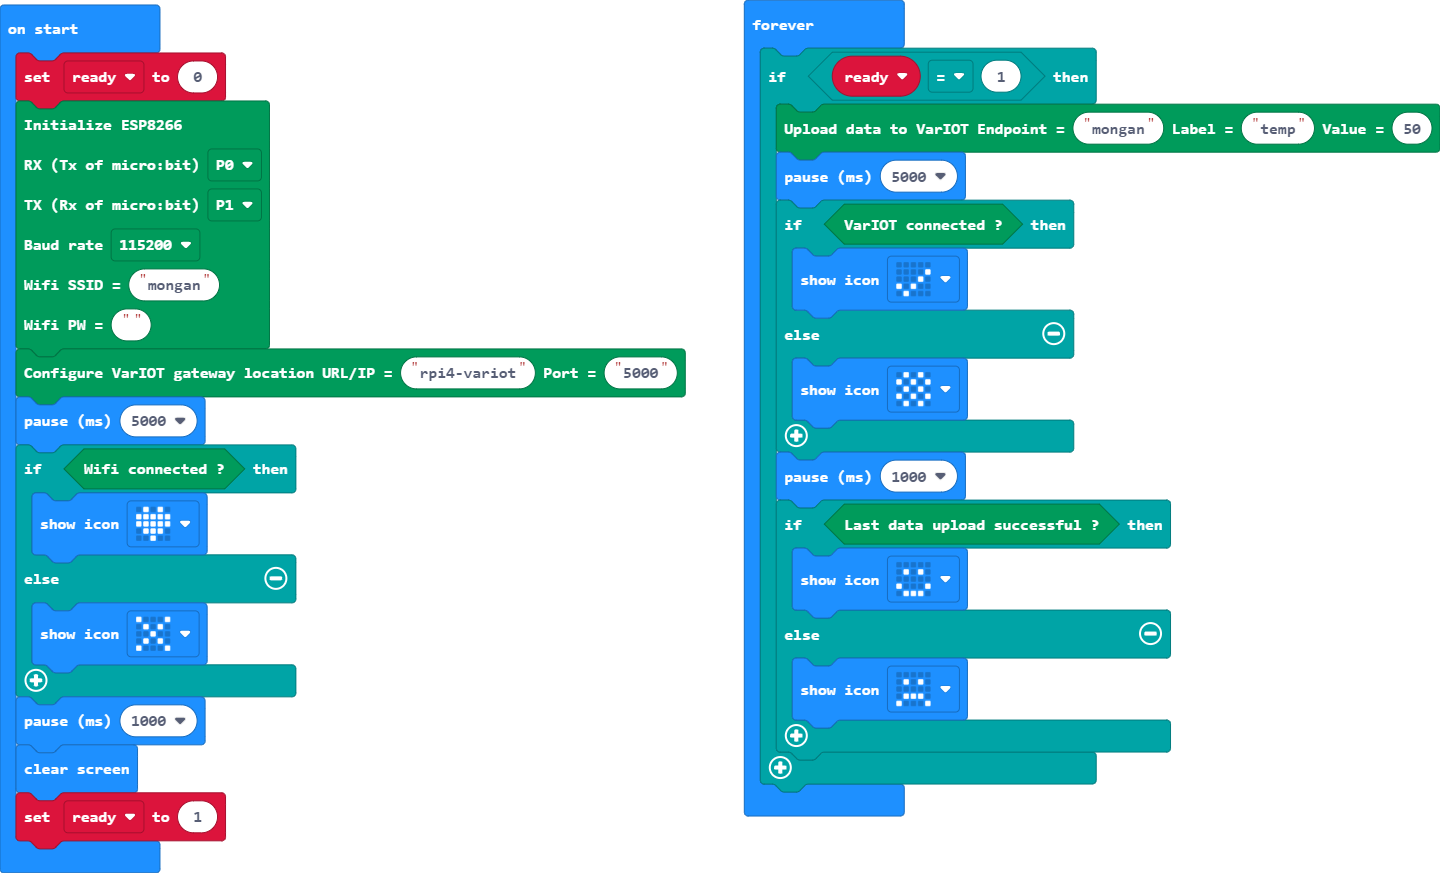
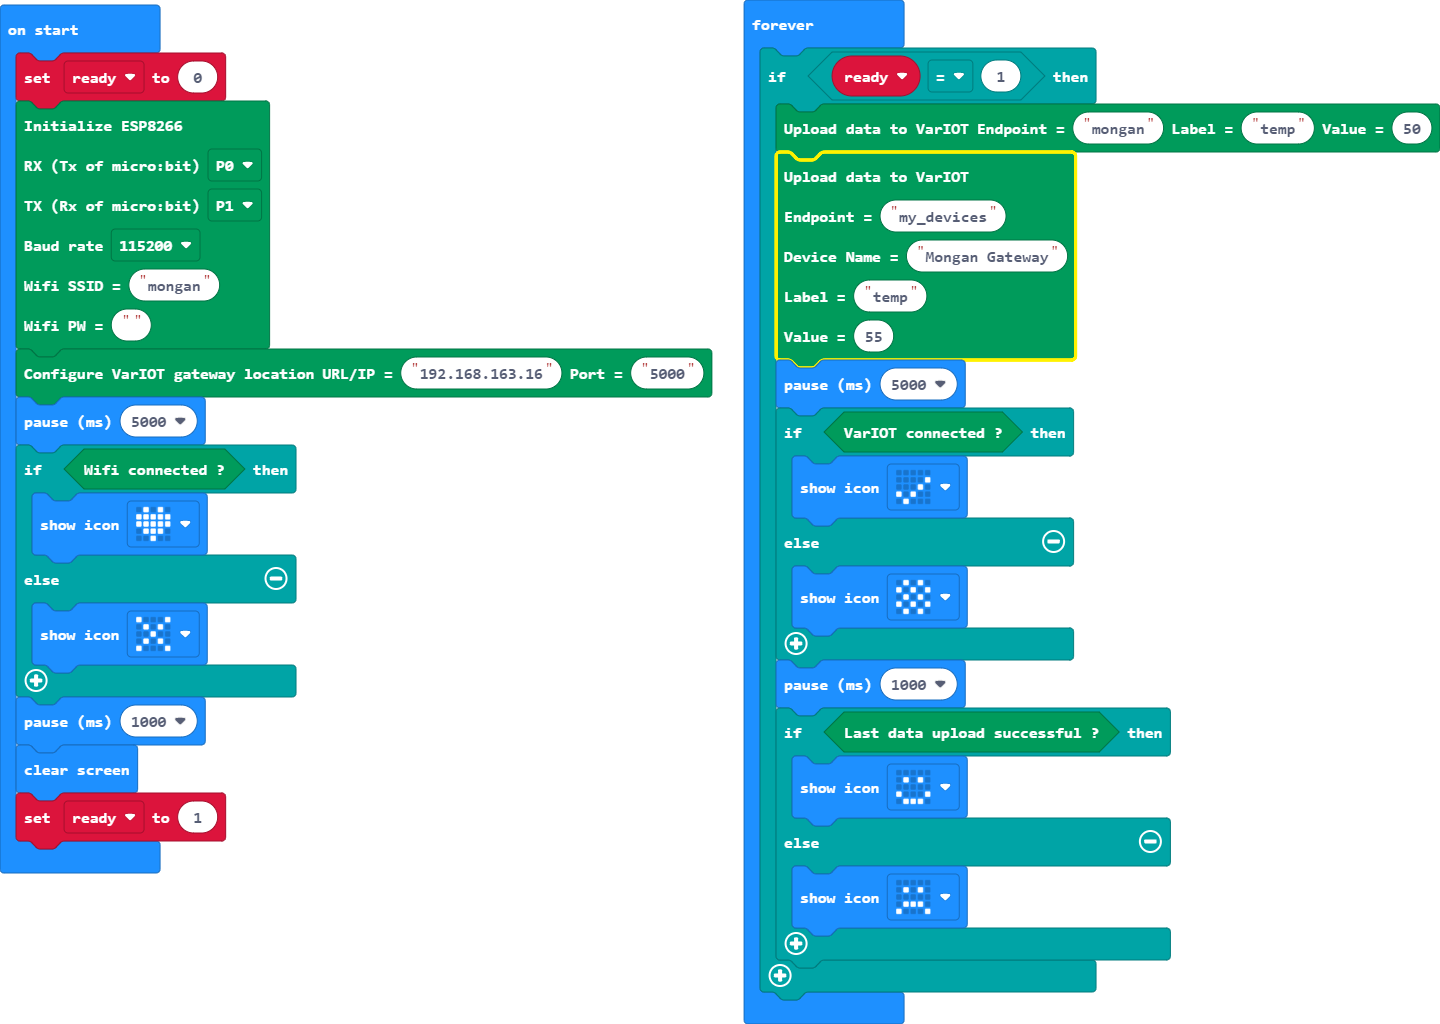
Testing second endpoint

Changed region(s): [[0.5, 0.0, 1.0, 1.0], [0.0, 0.0, 0.5, 1.0]]

diff --git a/main.ts b/main.ts
@@ -6,7 +6,7 @@ BaudRate.BaudRate115200,
 "mongan",
 ""
 )
-ESP8266VarIOT.configureVarIOT("rpi4-variot", "5000")
+ESP8266VarIOT.configureVarIOT("192.168.163.16", "5000")
 basic.pause(5000)
 if (ESP8266VarIOT.isWifiConnected()) {
     basic.showIcon(IconNames.Heart)
@@ -19,6 +19,12 @@ ready = 1
 basic.forever(function () {
     if (ready == 1) {
         ESP8266VarIOT.sendVarIOTTelemetry("mongan", "temp", 50)
+        ESP8266VarIOT.sendVarIOTTelemetryByDeviceName(
+        "my_devices",
+        "Mongan Gateway",
+        "temp",
+        55
+        )
         basic.pause(5000)
         if (ESP8266VarIOT.isVarIOTConnected()) {
             basic.showIcon(IconNames.Yes)
